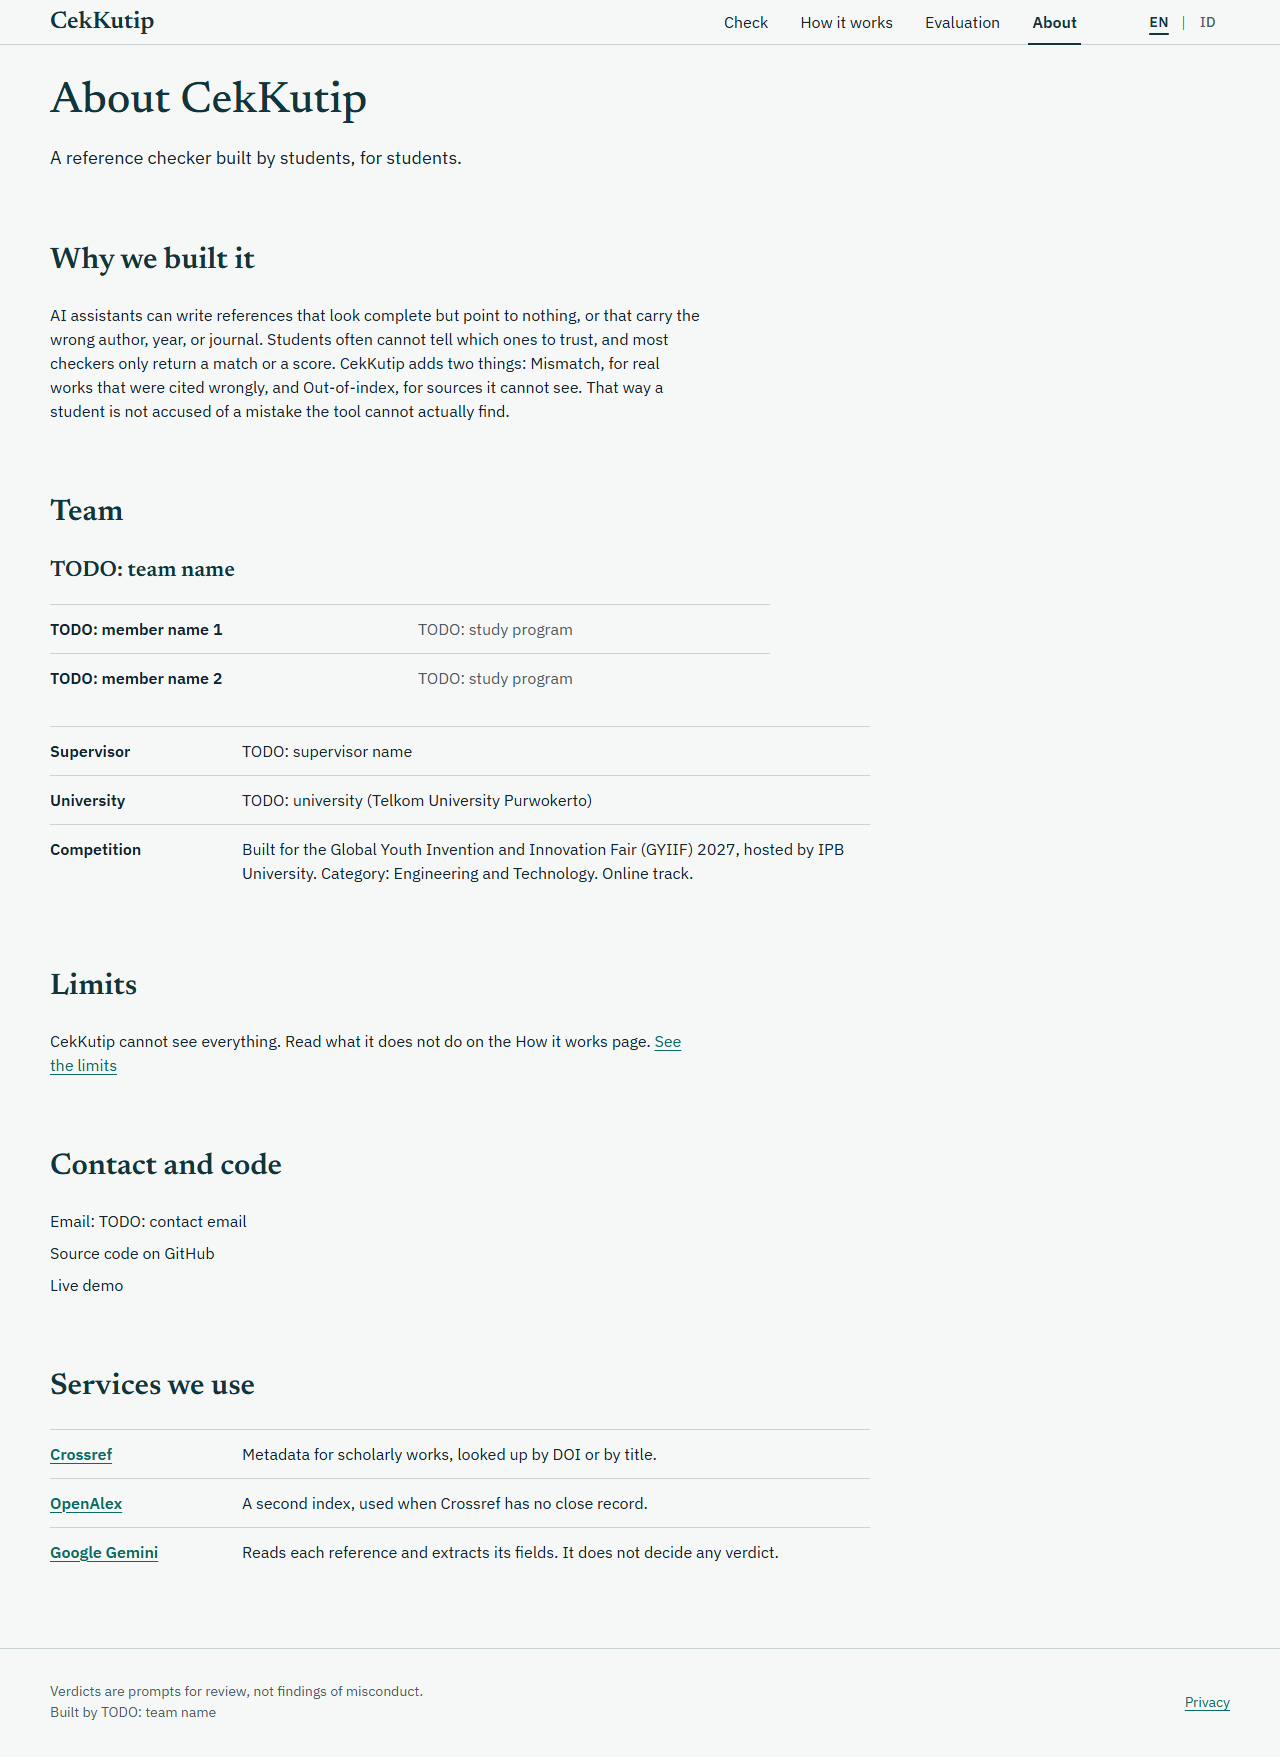
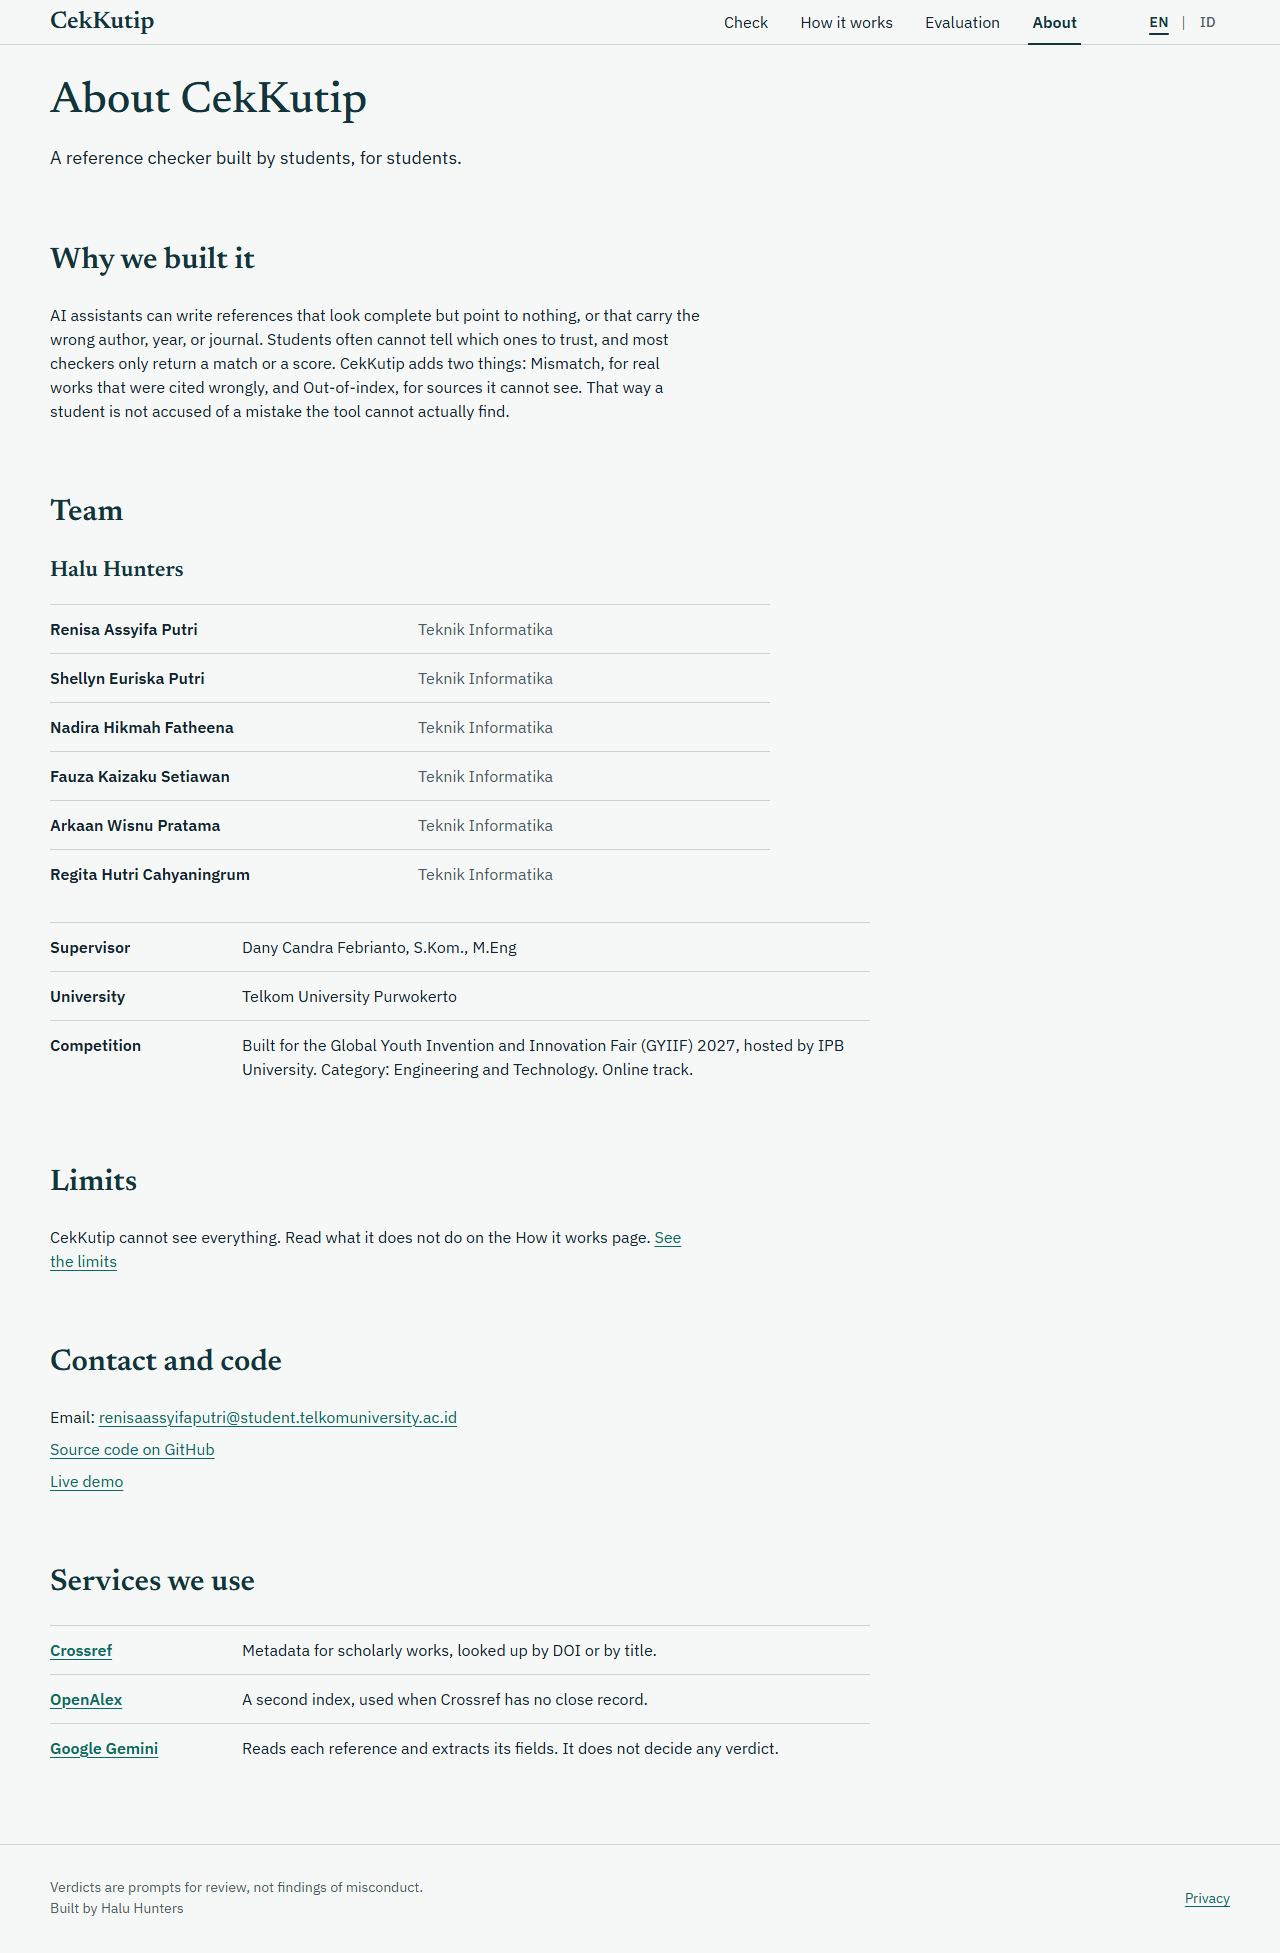
Fill in team identity (Halu Hunters) and link the repo and archive folder
- site.config.ts: team, members, supervisor, university, contact (team leader's student email),
  GitHub URL, expected Render URL. The production build no longer needs the TODO bypass.
- README: team section and link to the Drive folder with the demo video and manual book.
- About page: a long contact email wraps on narrow screens.

diff --git a/apps/web/src/site.config.ts b/apps/web/src/site.config.ts
@@ -1,7 +1,6 @@
 /**
  * Team and contact details shown on public pages (About, Footer).
- * Every value below is a placeholder. A production build FAILS while any
- * value still starts with 'TODO'. Replace them before deploying.
+ * A production build FAILS while any value still starts with 'TODO'.
  */
 export interface SiteConfig {
   teamName: string
@@ -14,16 +13,22 @@ export interface SiteConfig {
 }
 
 export const siteConfig: SiteConfig = {
-  teamName: 'TODO: team name',
+  teamName: 'Halu Hunters',
   members: [
-    { name: 'TODO: member name 1', program: 'TODO: study program' },
-    { name: 'TODO: member name 2', program: 'TODO: study program' },
+    { name: 'Renisa Assyifa Putri', program: 'Teknik Informatika' },
+    { name: 'Shellyn Euriska Putri', program: 'Teknik Informatika' },
+    { name: 'Nadira Hikmah Fatheena', program: 'Teknik Informatika' },
+    { name: 'Fauza Kaizaku Setiawan', program: 'Teknik Informatika' },
+    { name: 'Arkaan Wisnu Pratama', program: 'Teknik Informatika' },
+    { name: 'Regita Hutri Cahyaningrum', program: 'Teknik Informatika' },
   ],
-  supervisor: 'TODO: supervisor name',
-  university: 'TODO: university (Telkom University Purwokerto)',
-  contactEmail: 'TODO: contact email',
-  githubUrl: 'TODO: GitHub URL',
-  demoUrl: 'TODO: demo URL',
+  supervisor: 'Dany Candra Febrianto, S.Kom., M.Eng',
+  university: 'Telkom University Purwokerto',
+  contactEmail: 'renisaassyifaputri@student.telkomuniversity.ac.id',
+  githubUrl: 'https://github.com/RedRNS/CekKutip',
+  // The address Render is expected to give the service named "cekkutip". If Render gives another
+  // one (the name was taken), change this line and push: the site redeploys by itself.
+  demoUrl: 'https://cekkutip.onrender.com',
 }
 
 export function findTodoFields(config: SiteConfig = siteConfig): string[] {

diff --git a/apps/web/src/styles/layout.css b/apps/web/src/styles/layout.css
@@ -175,3 +175,8 @@
   font-size: var(--fs-14);
   padding-block: var(--s-8);
 }
+
+/* A long address (the contact email) breaks instead of touching the edge on a phone. */
+.plain-list--tight a[href^='mailto:'] {
+  overflow-wrap: anywhere;
+}

diff --git a/README.md b/README.md
@@ -13,6 +13,12 @@ Model bahasa **hanya membaca** teks referensi menjadi field (penulis, tahun, jud
 
 Dibuat untuk GYIIF 2027 (kategori Engineering and Technology). Pembeda dari pemeriksa lain: verdict `Mismatch` untuk karya nyata yang dikutip keliru, verdict abstain `Out-of-index`, dan evaluasi pada referensi mahasiswa Indonesia.
 
+## Tim
+
+Kelompok **Halu Hunters**, Teknik Informatika, Telkom University Purwokerto. Anggota: Renisa Assyifa Putri (ketua), Shellyn Euriska Putri, Nadira Hikmah Fatheena, Fauza Kaizaku Setiawan, Arkaan Wisnu Pratama, Regita Hutri Cahyaningrum. Dosen pembimbing: Dany Candra Febrianto, S.Kom., M.Eng.
+
+Video demo, buku manual, dan arsip lain untuk pengguna ada di [folder Google Drive tim](https://drive.google.com/drive/folders/1vPRw8e8778n8S_w2c4RgPBTmzjuVsklV?usp=sharing).
+
 ## Fitur selain pemeriksaan dasar (P1)
 
 - **DOI arXiv dan Zenodo** diperiksa lewat DataCite, bukan langsung `Out-of-index`.
